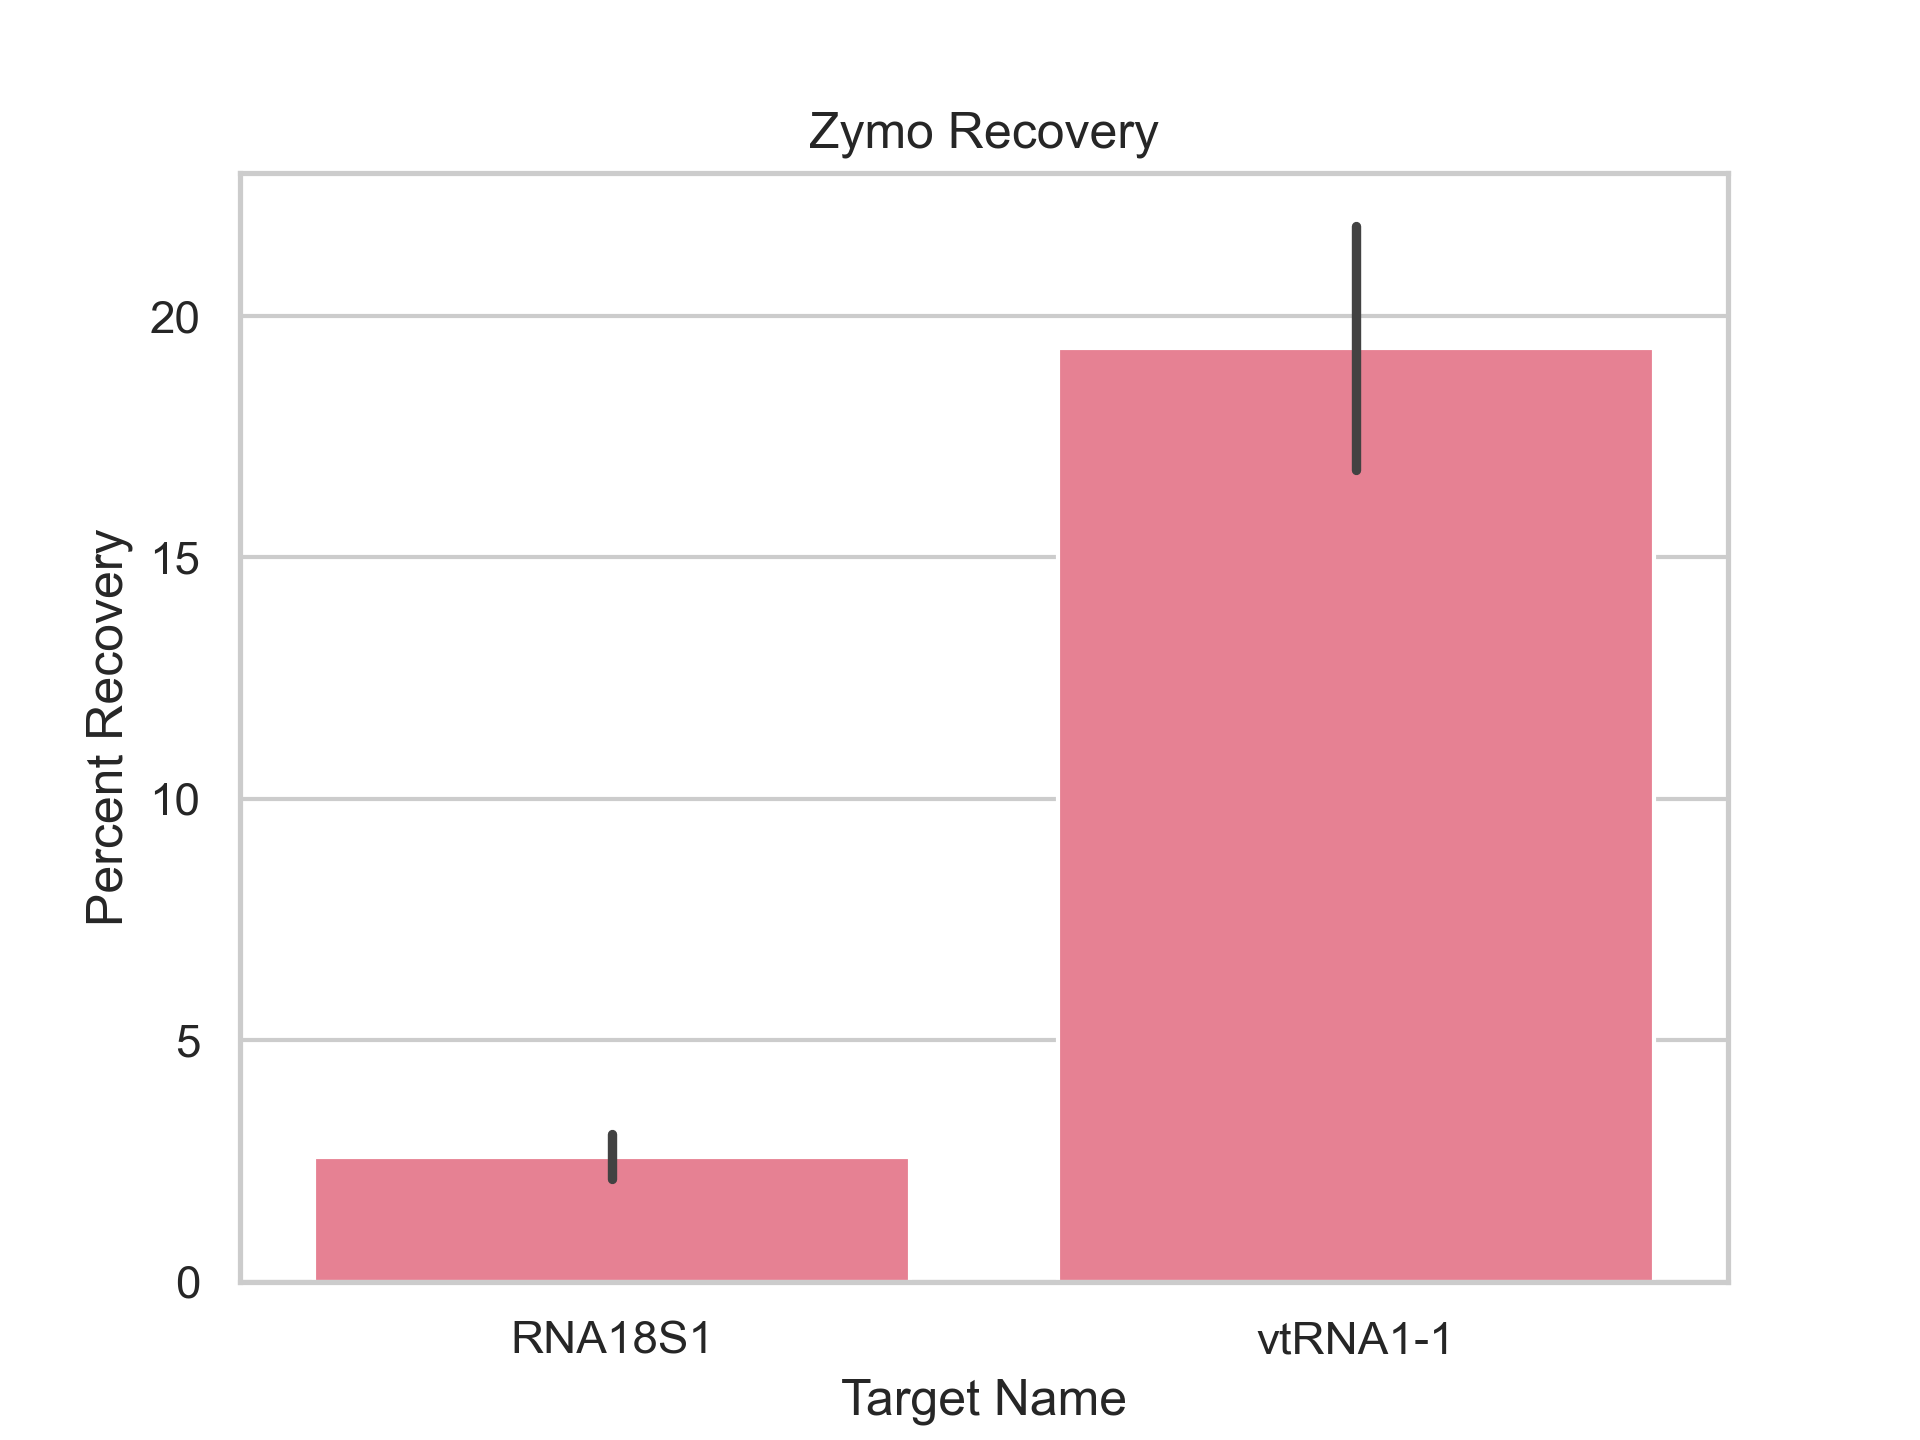
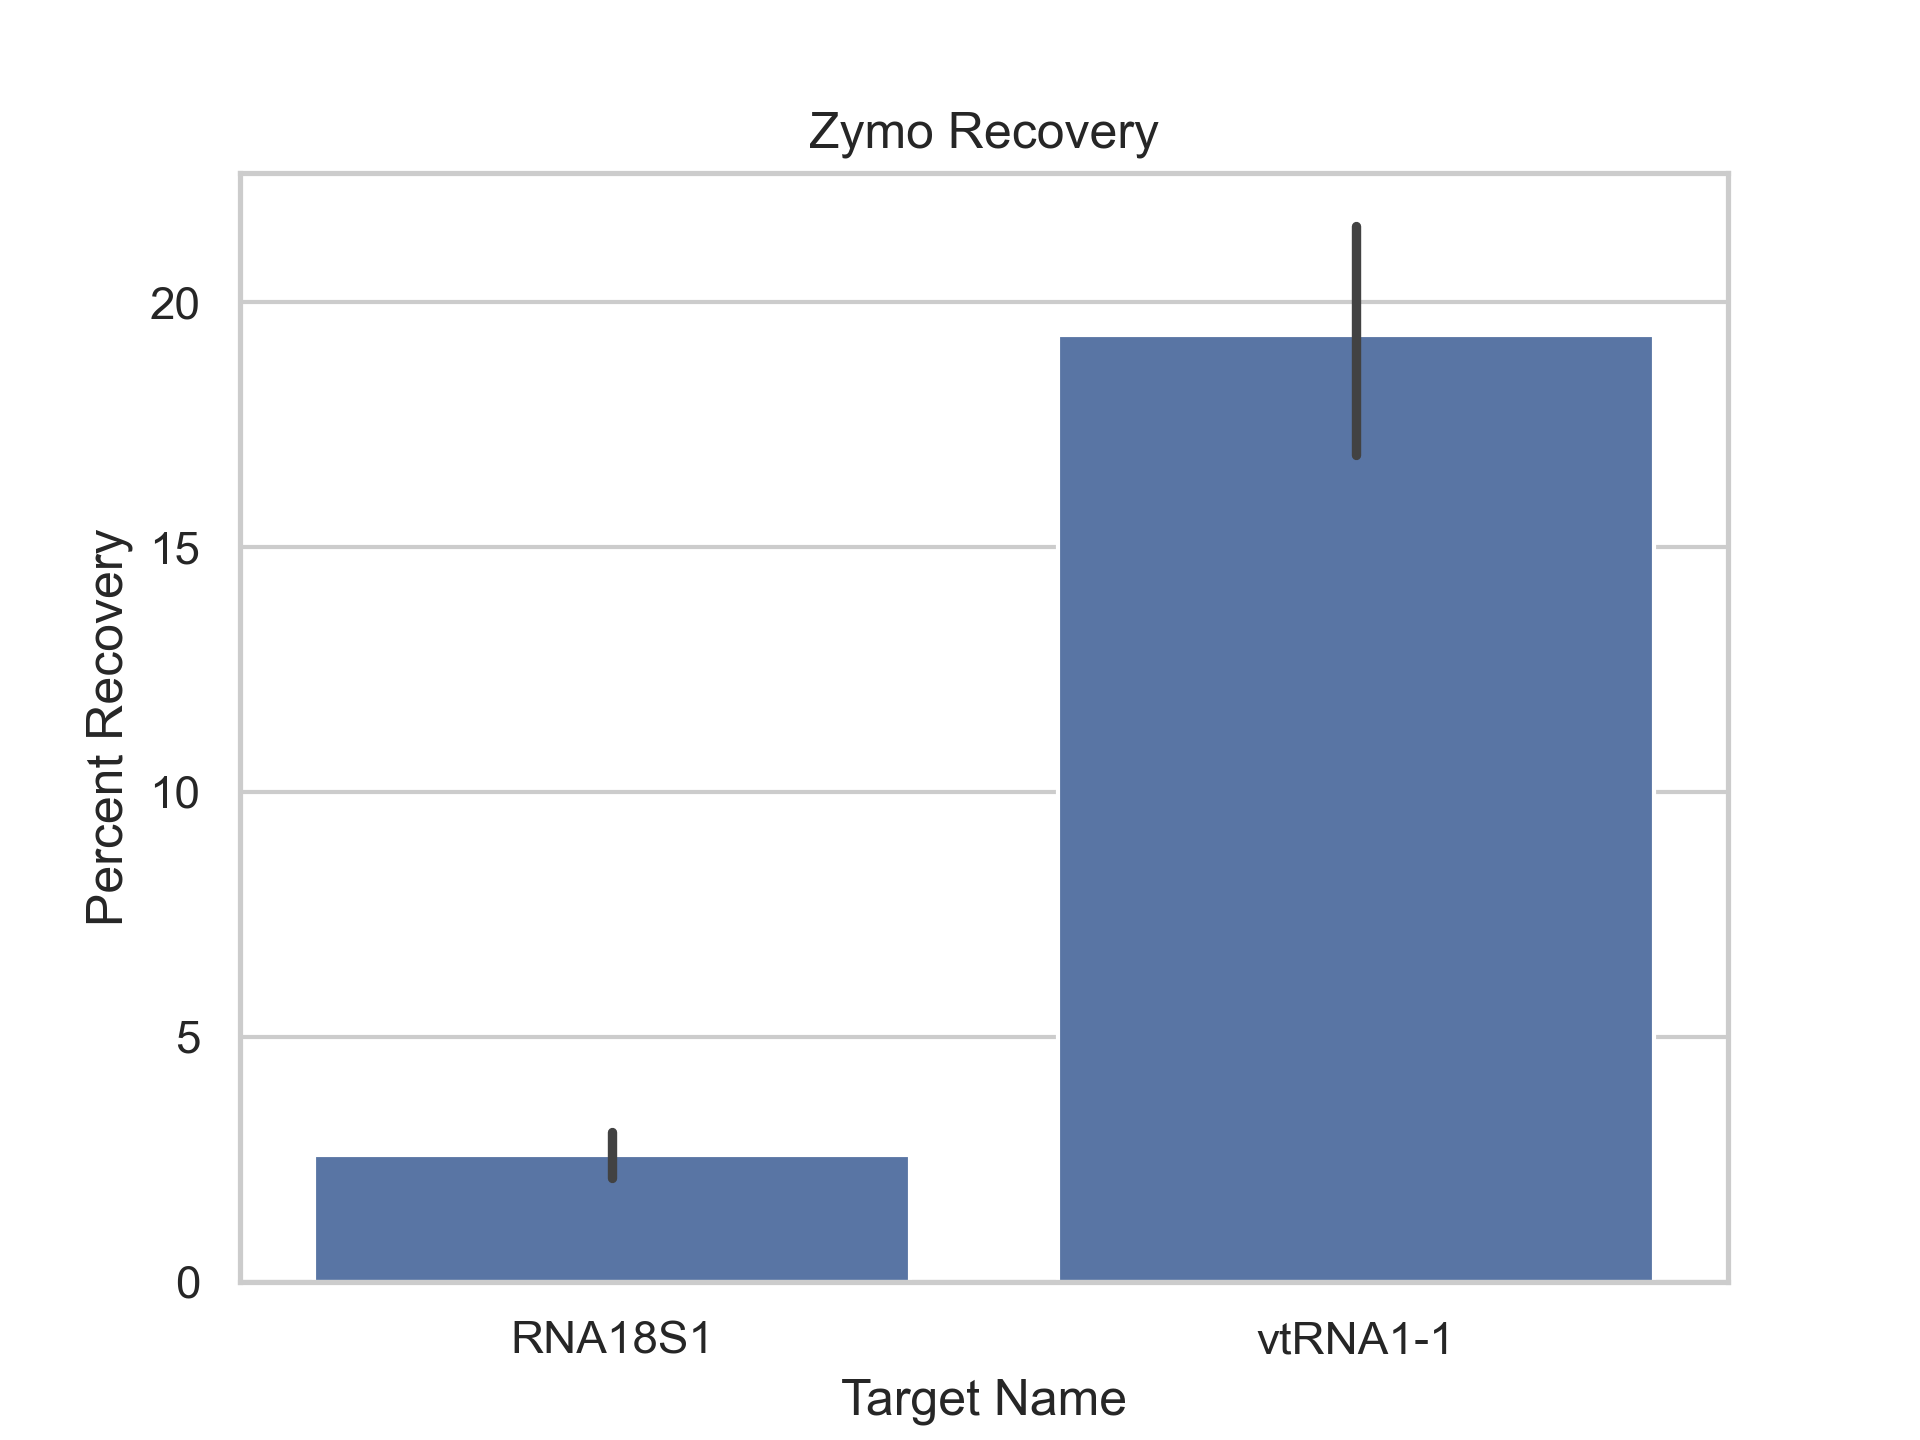
Change color palette

Changed region(s): [[0.0938, 0.1875, 0.9062, 0.9062], [0.1562, 0.7812, 0.5, 0.9062], [0.0625, 0.1875, 0.0938, 0.25]]

diff --git a/TN037/TN037.5.py b/TN037/TN037.5.py
@@ -83,7 +83,7 @@ trizol = pd.concat([recover_trizol_old, recover_trizol_new])
 
 def plot_percent_recovery(df, title):
     sns.set_theme(style="whitegrid")
-    sns.set_palette("husl", 8)
+    sns.set_palette("deep", 8)
     ax = sns.barplot(x="Target Name", y="percent_recovery_corrected", data=df)
     ax.set_title(title)
     # ax.set_ylim(0, 100)
